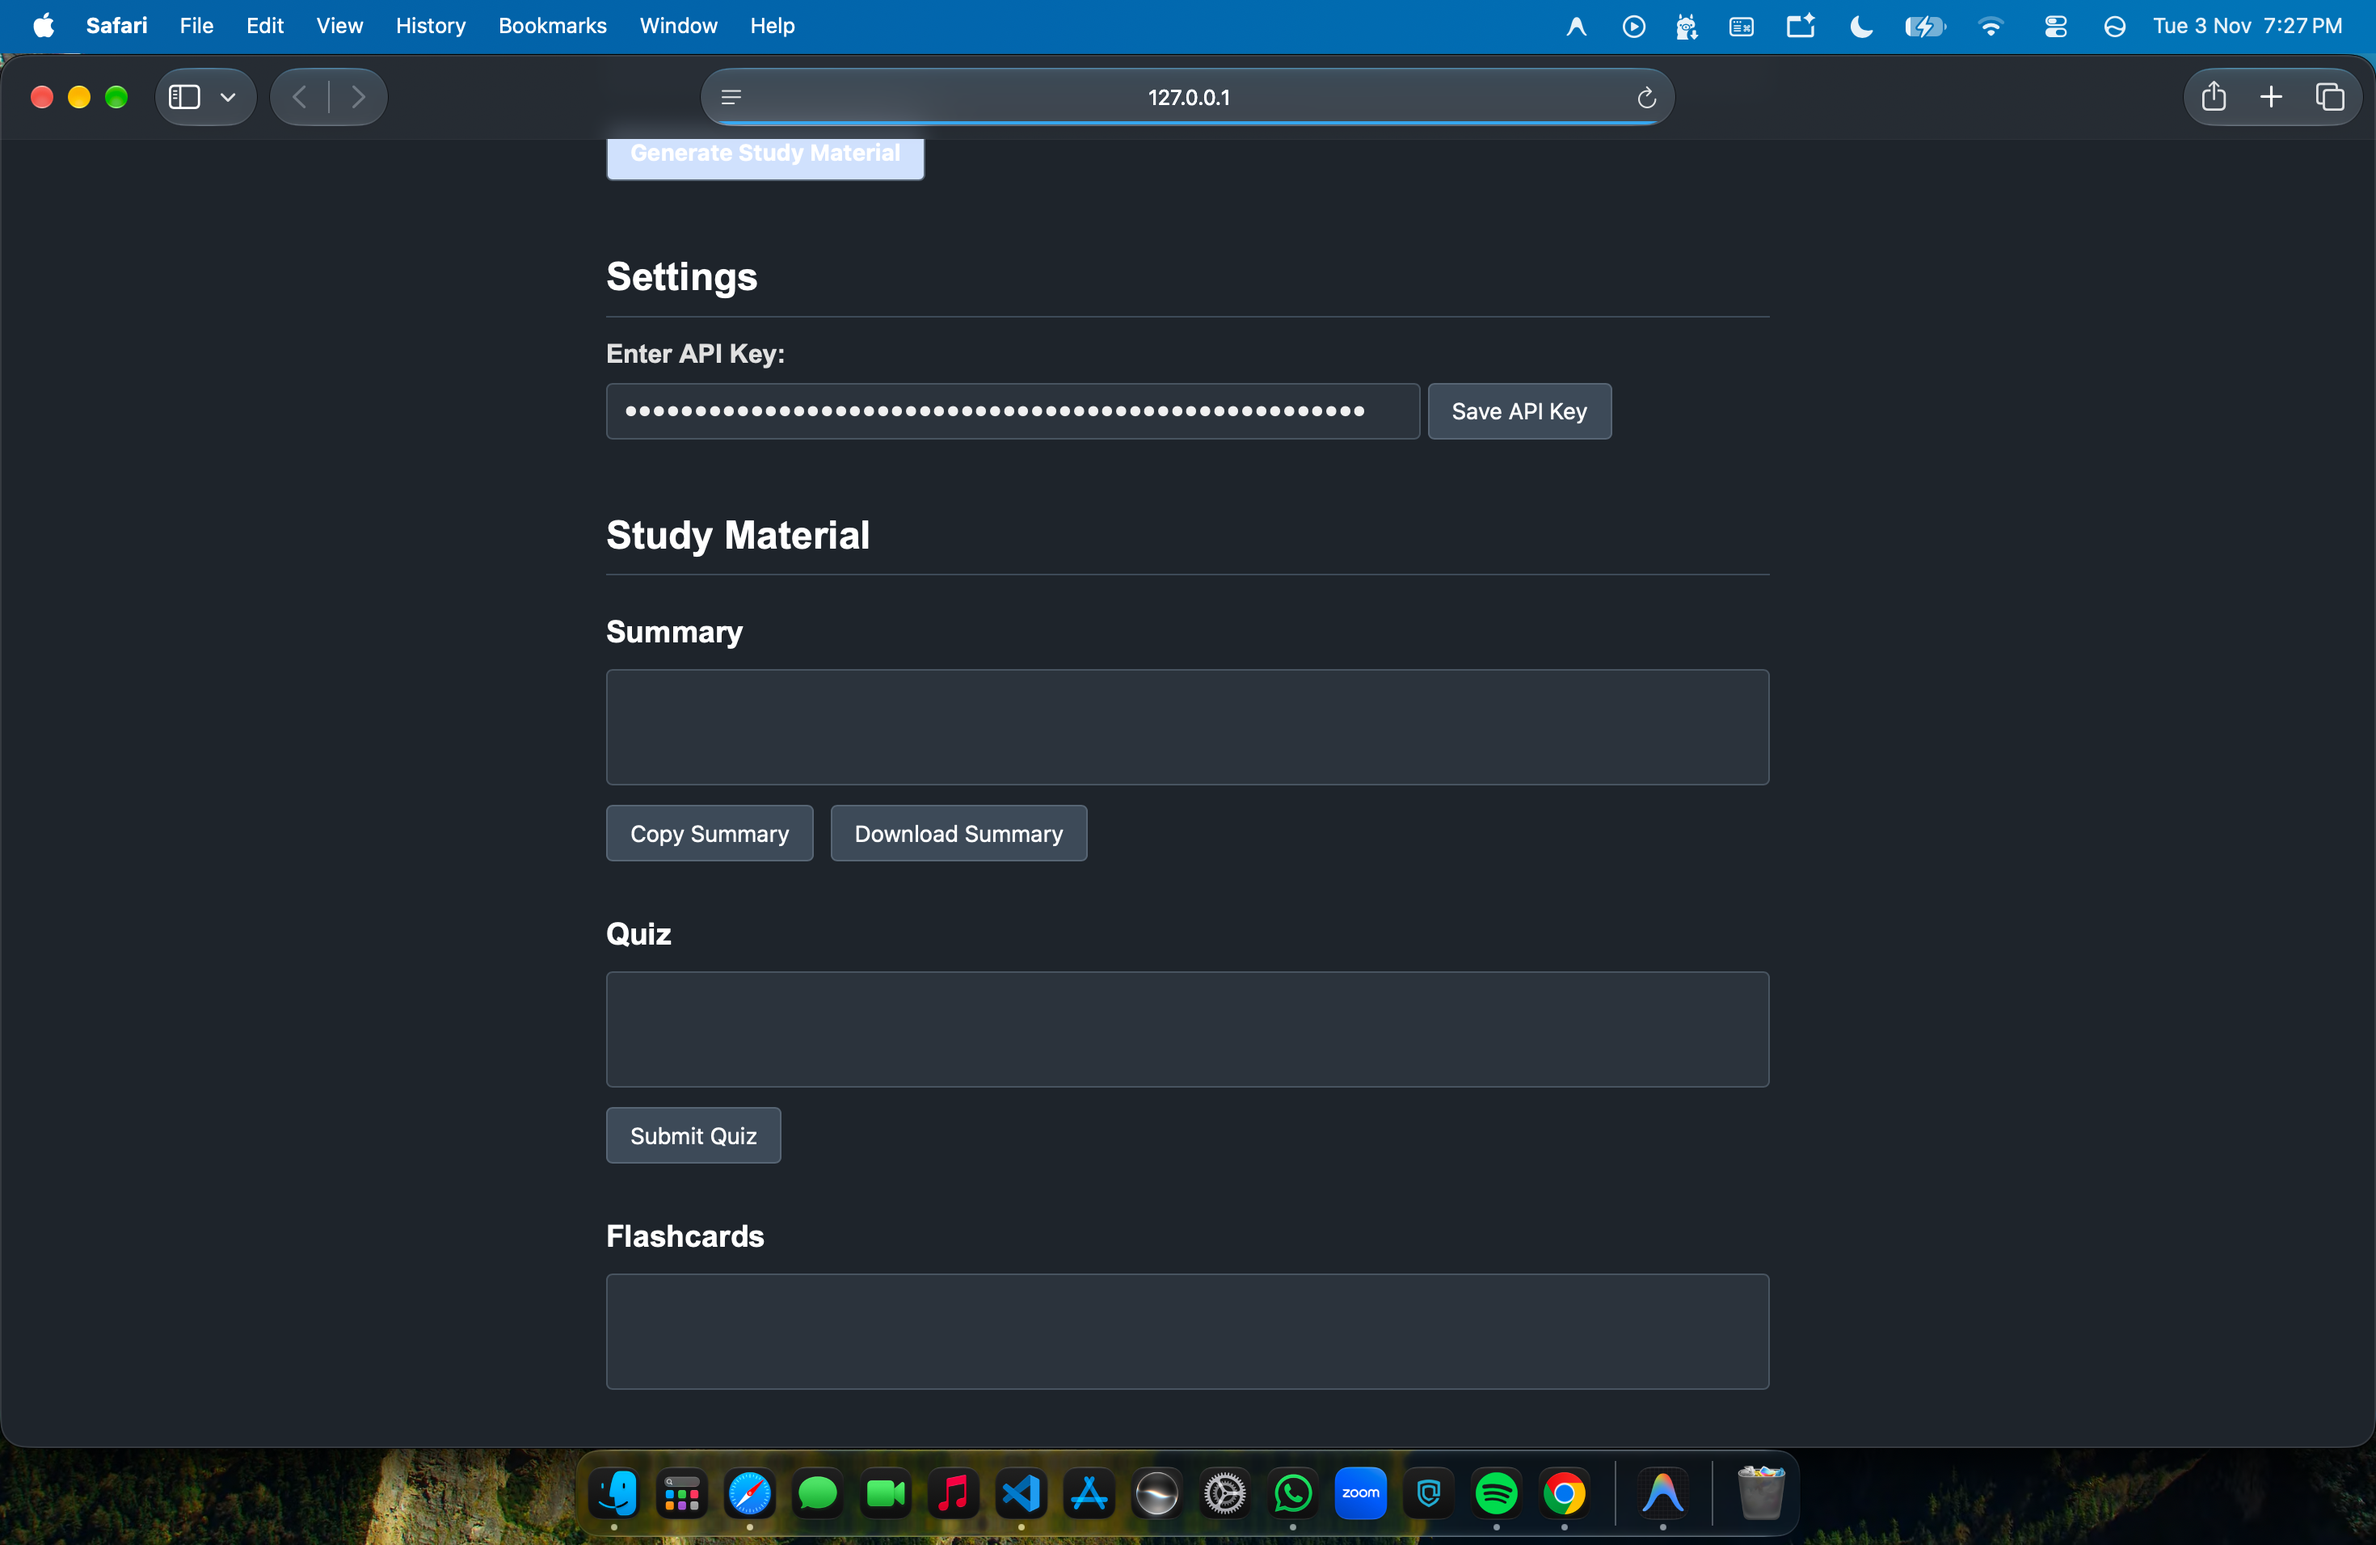
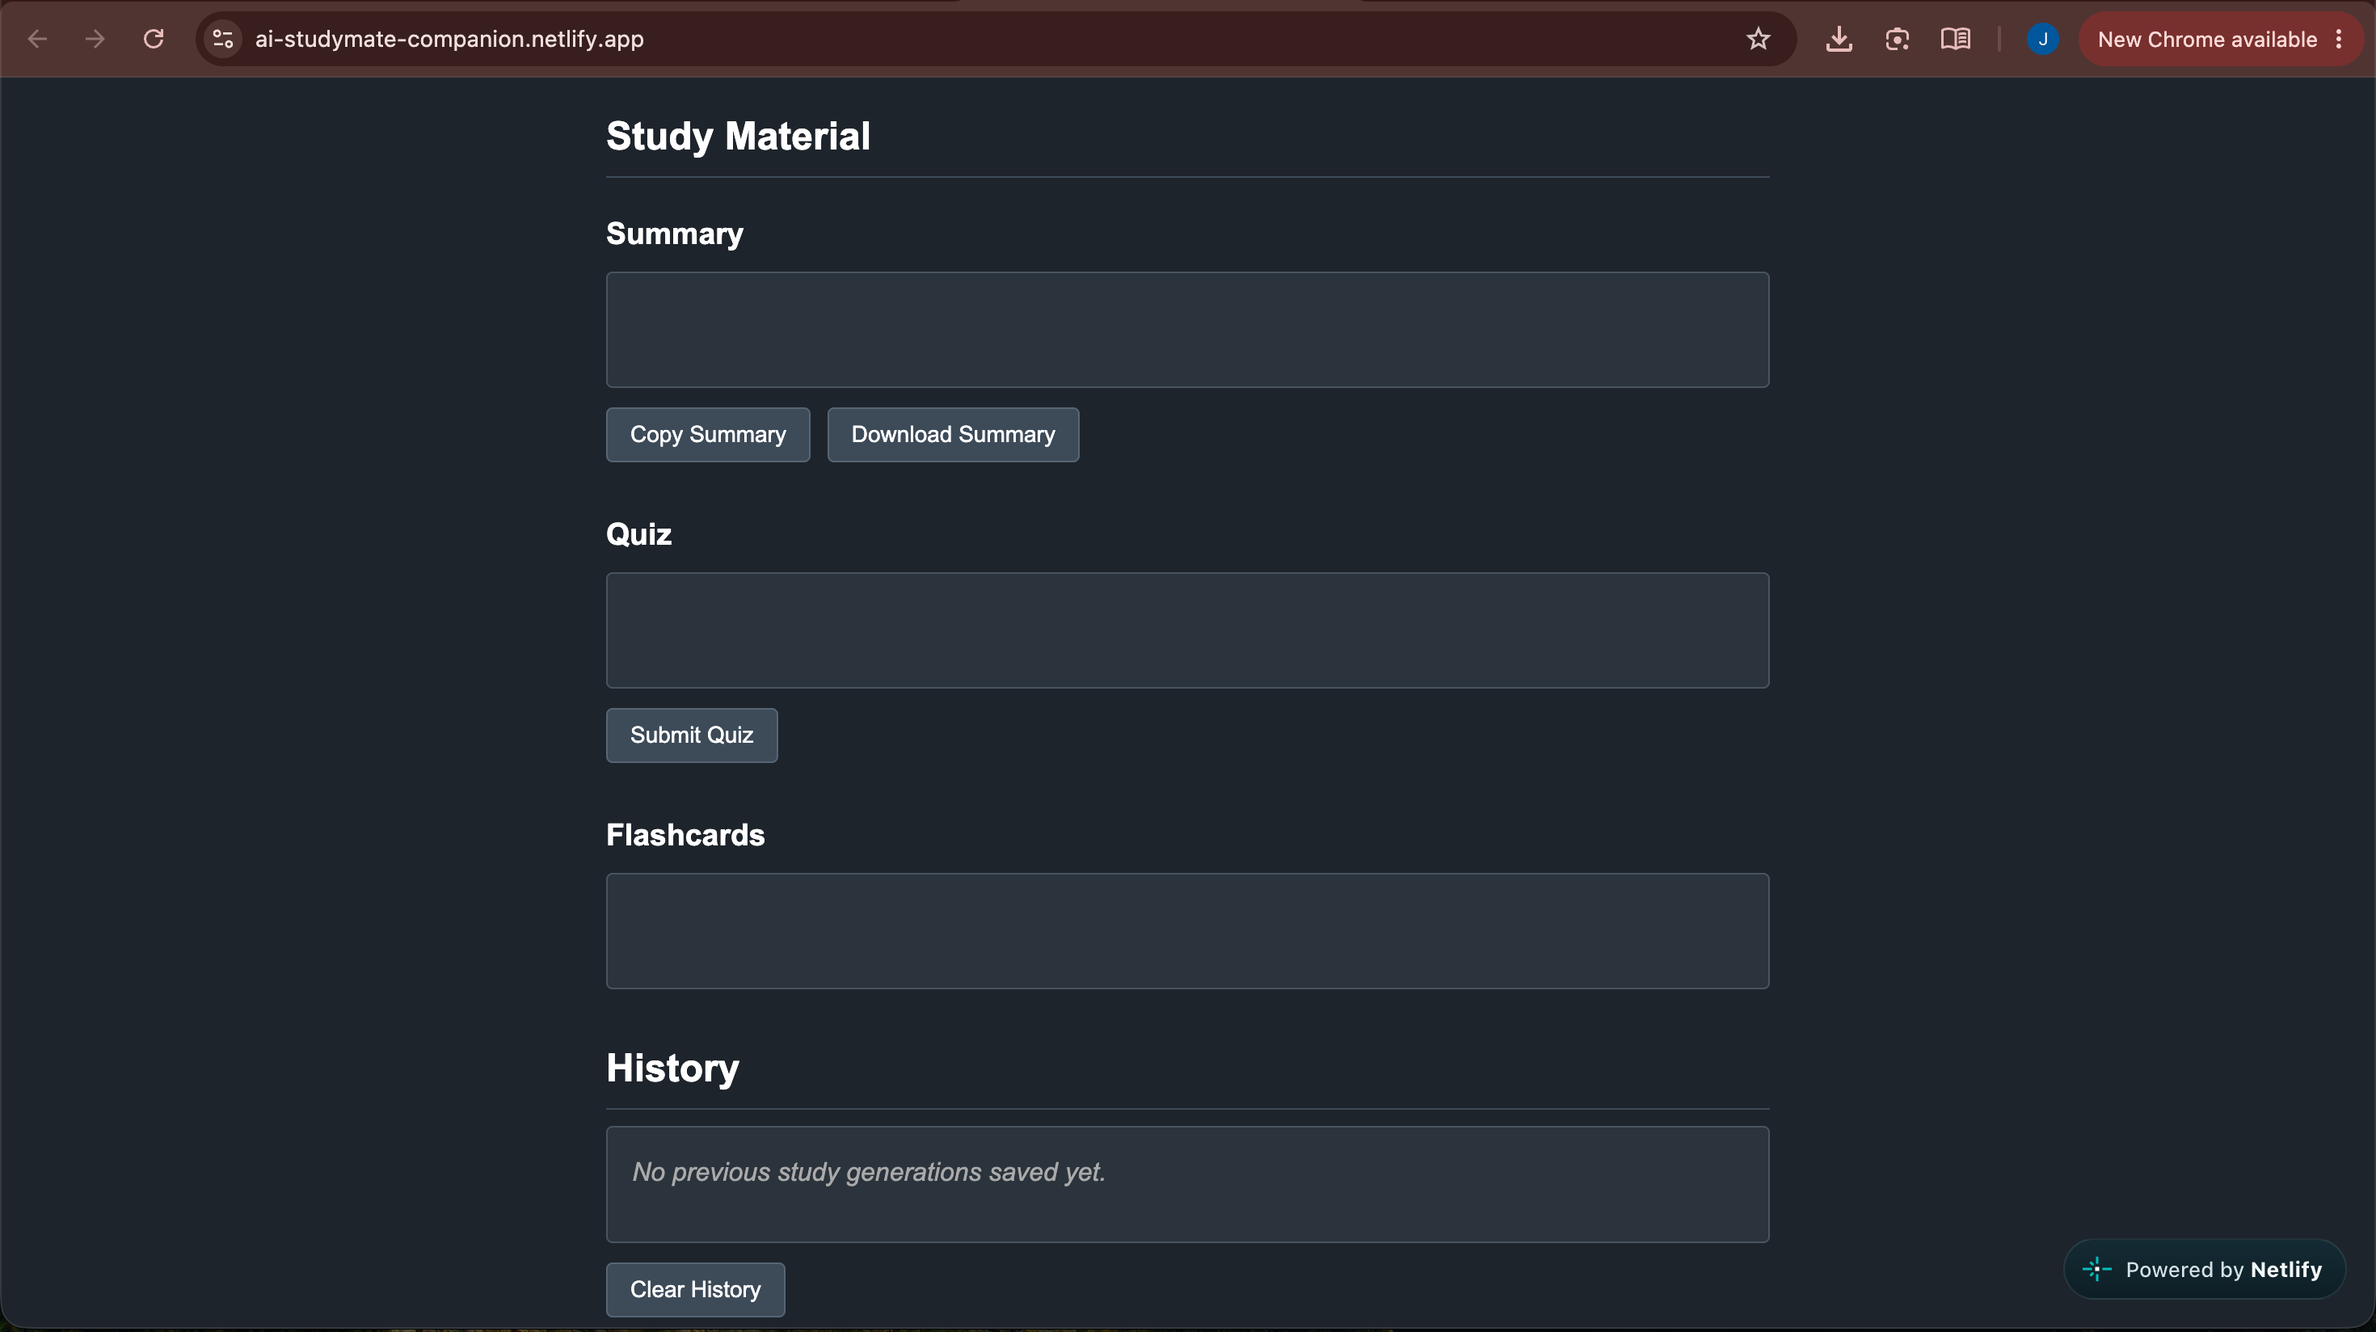
Update live demo link and application screenshots

diff --git a/README.md b/README.md
@@ -78,3 +78,9 @@ Developed as a Web Technology academic assignment.
 
 ### Screenshot 2
 ![StudyMate AI - Features](screenshot2.png)
+
+## 🚀 Live Demo
+
+**Try StudyMate AI here:** [Open Live Website](## 🚀 Live Demo
+
+**Try StudyMate AI here:** [Open Live Website](https://ai-studymate-companion.netlify.app))
